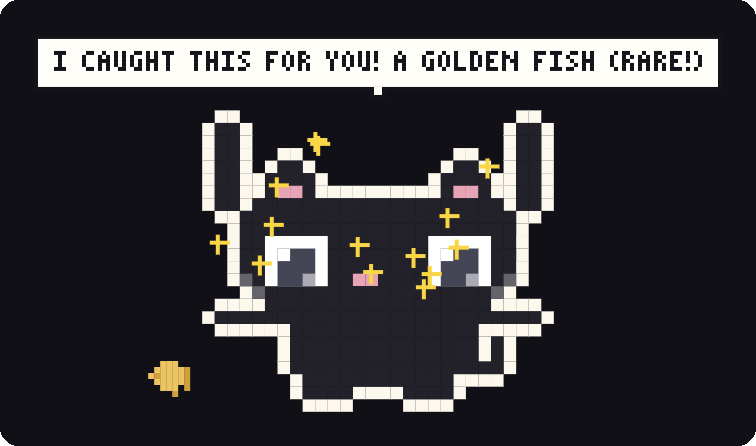
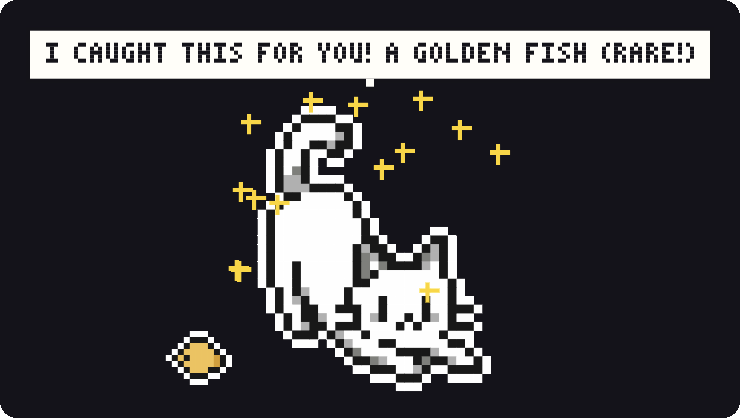
the readme catches up: her look is a pack you can draw, asks go both ways and wait for you, and every screenshot shows the cat people will actually meet

Changed region(s): [[0.0311, 0.0622, 0.9635, 0.933], [0.1865, 0.7775, 0.3108, 0.933]]

diff --git a/README.md b/README.md
@@ -35,7 +35,8 @@ always behind a confirmation chip, always undoable.
 
 Every pixel is drawn by code. There are no image files, no fonts, no sounds;
 her entire anatomy is ASCII art in [`renderer/sprites.js`](renderer/sprites.js),
-and even the purr is synthesized. She began as a study of
+and even the purr is synthesized. Her look is a **sprite pack** — three ship
+built in, and drawing your own takes one JSON file. She began as a study of
 [comnyang](https://comnyang.com/), the original desktop cat, rebuilt from
 scratch.
 
@@ -89,21 +90,24 @@ per process, so the restart matters.
   pounce.
 - **Pet her** with slow strokes: purring, hearts, blush.
 - **Boop her nose** and she squashes, slow-blinks, and occasionally mlems.
-- **She kneads while you type.** Type like a maniac and she overheats and
-  steams; her fur never turns red, a test enforces it.
+- **She types along while you type** — on a tiny two-key keyboard of her
+  own. Type like a maniac and she overheats and steams; her fur never turns
+  red, a test enforces it.
 - **Scroll and she unrolls a paper** under her paws.
-- **Left alone, she has rituals**: washing up, ear flicks, tail wrapped around
-  her paws, a curious head-tilt when you hover, the rare blep.
+- **Left alone, she has rituals**: licking a raised paw, ear flicks, tail
+  wrapped around her paws, a curious head-tilt when you hover, the rare blep.
 - **She naps** in a loaf, dreams of fish (ears twitching), and wakes with a
   yawn and a startled `!`.
-- **Drag her** and she dangles, then wobbles like mochi when you let go.
+- **Drag her** and she dangles from the scruff, her body a real pendulum on
+  the moving pivot — jerk the window and she genuinely trails behind, then
+  sways to rest when you let go.
 
 <br clear="both" />
 
 ### She remembers you
 
 <img src="docs/morning.png" align="right" width="300"
-     alt="The cat with a morning greeting bubble and a small pixel gift set at her feet" />
+     alt="The cat play-bowing over a golden fish with sparkles, announcing 'I caught this for you! A golden fish (rare!)' in a paper speech bubble" />
 
 - **Bond levels change how she behaves**, not what she can do — more hearts
   when petted, zoomies for old friends. No visible numbers, ever.
@@ -142,6 +146,37 @@ per process, so the restart matters.
 
 <br clear="both" />
 
+### Her look is a pack
+
+<img src="docs/roundcat-sheet.png" align="right" width="240"
+     alt="A tiny hand-drawn 'roundcat' rendered in all seven fur colors, wearing a red scarf — except the black cat, whose scarf is yellow" />
+
+Three looks ship built in — **sticker** (the default, chart-accurate die-cut
+art), **classic**, and **kawaii** — and switching is one click in Settings →
+CAT → LOOK. Drawing your own is one JSON file:
+
+- A pack is **pure data**: ASCII frames plus optional colors and animation
+  hints. No code, so packs are safe to share — the worst a broken one can do
+  is be skipped with a readable error.
+- **Only `sit` is required.** Every pose degrades to the nearest thing you
+  did draw, so a three-frame starter cat already lives on the desktop; add
+  running, dangling, grooming as you go.
+- Packs can define **their own region characters with their own colors** —
+  the example pack's scarf is red on every coat and yellow on the black one —
+  while the user's chosen fur colors, patterns, and photo palettes keep
+  working on every pack.
+- Packs answer moments their own way: the sticker cat **play-bows over her
+  overnight gift**; yours can strike its own pose.
+- The **pixel editor paints per pack**, so face markings never smear across
+  different anatomies.
+
+Drop a folder into her `sprite-packs/` directory and press reload — the
+[authoring guide](docs/SPRITES.md) walks through the whole format, and
+[`docs/examples/roundcat`](docs/examples/roundcat/pack.json) (pictured) is a
+complete starter pack to copy.
+
+<br clear="both" />
+
 <details>
 <summary>The complete list</summary>
 
@@ -149,7 +184,7 @@ per process, so the restart matters.
 | --- | --- |
 | Eye follow | pupils track the cursor across the screen |
 | Hunt | fast cursor → chase → crouch + wiggle → pounce |
-| Drag | she hangs from the cursor, mochi-wobbles on release |
+| Drag | she dangles from the scruff, swinging like a pendulum |
 | Petting | strokes over her head → purr + hearts + blush |
 | Boop | click her nose → squash, slow-blink, sometimes a mlem |
 | Kneading¹ | typing → she kneads; sustained speed → overheat + steam |
@@ -166,7 +201,7 @@ per process, so the restart matters.
 | Away digest | one catch-up bubble after 2+ hours away |
 | Pomodoro | menu-bar timer, she stretches with you on breaks |
 | Reminders | meow at a time, pinned note above her head |
-| Agents | status LED, celebrations, question relay, typed answers |
+| Agents | status LED, celebrations, question relay, two-way asks with typed replies |
 | Customization | name, fur styles, photo-matched skin, pixel marking editor |
 | Sprite packs | three built-in looks + your own as pure JSON ([authoring guide](docs/SPRITES.md)) |
 | Hide/show | she leaves a note telling you how to call her back |
@@ -178,7 +213,7 @@ per process, so the restart matters.
 ## She watches your AI agents
 
 <img src="docs/agents.png" align="right" width="300"
-     alt="An agent question relayed onto the cat as a panel with two clickable answer options" />
+     alt="An agent's question on the cat: a dark panel reading 'COS asks — What should I tell the landlord about Saturday?' with a clickable option, a free-text reply field, and a Send button" />
 
 If you run Claude Code or Codex, she becomes the calmest status surface
 you've ever had: a cat with a tiny LED.
@@ -188,22 +223,31 @@ you've ever had: a cat with a tiny LED.
 - **One hop per finished turn.** Quick turns get a quiet nod; bursty
   pipelines are rate-limited; background and headless runs file into her
   inbox instead of interrupting you.
-- **Questions arrive as chips on her.** Click an answer and she focuses the
-  exact iTerm2/Terminal tab and types it for you.
+- **Questions arrive as a panel on her**, in the same quiet design as her
+  menu. Click an answer and she focuses the exact iTerm2/Terminal tab and
+  types it in for you.
 - **Speak to a session**: *"tell claude to run the tests."* She finds it,
-  asks you first, types the command into the prompt, and leaves the Enter
-  key to you.
+  asks you first, types the command into the prompt.
 
-Anything can drive her:
+And it goes both ways — **any tool can ask a question through her and get
+your answer back**. The HTTP response is held open until you click a chip,
+type into the optional reply field, or dismiss; no timeout unless the caller
+sets one, and silence is never treated as consent:
 
 ```bash
+# status is fire-and-forget
 curl -X POST http://127.0.0.1:41999/agent \
   -H "Content-Type: application/json" \
   -d '{"agent":"ci","state":"done"}'   # thinking | done | alert | idle
+
+# asks block until the human decides
+miru ask "Deploy to prod?" -o "Ship it" -o "Wait: staging first" --text
+# → prints the chosen label, or whatever you typed into the reply field
 ```
 
-Wiring up Claude Code or Codex is two button presses — see
-[Optional powers](#optional-powers).
+The same channel is `POST /ask` over HTTP and the `ask_user` tool over MCP —
+one held response, three doors. Wiring up Claude Code or Codex is two button
+presses — see [Optional powers](#optional-powers).
 
 <br clear="both" />
 
@@ -230,10 +274,10 @@ non-negotiable:
 
 | Surface | Looks like |
 | --- | --- |
-| `miru` CLI | `miru todo "review the PR @ 3pm"` |
+| `miru` CLI | `miru todo "review the PR @ 3pm"` · `miru ask "Merge?" -o Yes -o No` |
 | HTTP | `curl -X POST 127.0.0.1:41999/say -d '{"text":"DEPLOY DONE"}'` |
 | Deep links | `open "miru://say?text=hi"` — Shortcuts, Raycast, browsers |
-| MCP | `cat_say` · `cat_todo` · `cat_list_tasks` · `cat_status` · `cat_voice` |
+| MCP | `cat_say` · `cat_todo` · `cat_list_tasks` · `cat_status` · `cat_voice` · `ask_user` |
 
 All four proxy the same local API, which only ever binds to 127.0.0.1.
 
@@ -244,6 +288,8 @@ All four proxy the same local API, which only ever binds to 127.0.0.1.
 
 `POST /say {text}` · `/todo {text}` · `/voice {text}` · `/menu` · `/show` ·
 `/hide` · `/url {url}` · `/agent {agent, state, interactive?}` ·
+`/ask {agent?, question, options?, allowText?, timeoutMs?}` — the response is
+held open until the human answers ·
 `/hook/claude/<prompt|stop|notification|ask|ask-done|end>` ·
 `/hook/codex/notify`
 
@@ -277,7 +323,8 @@ first.
    `claude mcp add miru -s user -- node "$(pwd)/tools/mcp-server.js"`
 2. `claude mcp list` should show `miru`.
 3. Agents now have `cat_say`, `cat_todo`, `cat_list_tasks`, `cat_status`,
-   and `cat_voice`. Remove with `claude mcp remove miru`.
+   `cat_voice`, and `ask_user` — the last one blocks until you click or type
+   an answer on the cat. Remove with `claude mcp remove miru`.
 
 </details>
 
@@ -340,7 +387,7 @@ main.js            the entire main process: window, tray, a single 60 Hz loop,
 preload.js         the narrow IPC bridge
 renderer/
   cat.js           her state machine: moods, gestures, menu, panels, on canvas
-  sprites.js       her entire anatomy — every frame is ASCII art
+  sprites.js       her anatomy as sprite packs — every frame is ASCII art
   font.js          the pixel font, also drawn in code
   audio.js         synthesized chiptune purrs and meows, no audio files
   voice.js         microphone capture to WAV, in the renderer
@@ -353,12 +400,13 @@ lib/
   claudeHooks.js   installs/uninstalls the six Claude Code hooks, with backup
   codexHooks.js    wires Codex's notify hook, with backup
   focusTty.js      finds the terminal tab a session lives in and types for you
+  validatePack.js  the gate every user sprite pack passes before rendering
   store.js         settings and state, one JSON file
 tools/
-  scenarios.js     the 66-scenario behavior suite
-  miru.js        the CLI
+  scenarios.js     the 89-scenario behavior suite
+  miru.js          the CLI
   mcp-server.js    MCP over stdio: hand-rolled JSON-RPC, zero dependencies
-  preview.js       sprite contact sheets without opening the app
+  preview.js       contact sheets for any pack, without opening the app
 site/              the landing page; the same sprite engine renders a living cat
 ```
 
@@ -388,11 +436,11 @@ judged by looking at her, not just at the assertions.
 ```text
 ✓ overheat: fast typing steams the cat, fur never turns red
 ✓ hunt: run, leap, caught
-✓ question: panel shows real options, click types answer
+✓ external ask: a typed reply travels back
 ✓ streaks: weekends never break them, weekdays do
 ✓ voice: spoken todo → chips → auto-add → tap-to-undo
-✓ rituals: grooming — paw lick, ear wipe, happy eyes
-  … 66 in all
+✓ sprite packs: a user pack loads, degrades politely, restores
+  … 89 in all
 ```
 
 One favorite detail: the overheat scenario scans the live canvas pixel by
@@ -400,15 +448,16 @@ pixel and fails if a single pixel lands in the old red-tint zone. Her fur
 stays hers.
 
 <img src="docs/contact-sheet.png" width="760"
-     alt="A contact sheet of her sprite frames across several fur colors: sitting, tail positions, kneading, loafing, hanging, celebrating, stretching" />
+     alt="A contact sheet of the sticker pack's frames across three fur colors: sitting, tail positions, kneading, loafing, dangling, celebrating, stretching, grooming, running" />
 
 ## Developing her
 
 | Command | What it does |
 | --- | --- |
 | `npm start` | run her |
-| `npm test` | the 66-scenario suite, screenshots to `/tmp/miru-test/` |
-| `npm run preview` | contact sheet of every sprite frame × skin, no app needed |
+| `npm test` | the 89-scenario suite, screenshots to `/tmp/miru-test/` |
+| `npm run preview` | contact sheet of the default pack × every skin, no app needed |
+| `node tools/preview.js /tmp/s.png plain <pack>` | sheet for any pack, or a bare `pack.json` |
 | `npm run smoke` | boot + self-check |
 | `npx electron . --shot /tmp/shots` | capture seven labeled real states |
 
@@ -420,8 +469,10 @@ engine renders a living, boopable cat. `renderer/sprites.js` is vendored into
 Before a PR: `npm test` should pass, and anything visual should come with
 its screenshots (`npm run preview`, or the shots the suite already takes).
 House style: no image or audio assets — she is drawn and voiced in code;
-pixel art belongs to the cat, panels stay quiet and modern. For anything
-large, open an issue first so we can talk it over.
+pixel art belongs to the cat, panels stay quiet and modern. New looks
+belong in sprite packs, not in engine forks — start from the
+[authoring guide](docs/SPRITES.md). For anything large, open an issue first
+so we can talk it over.
 
 ## License and lineage
 
